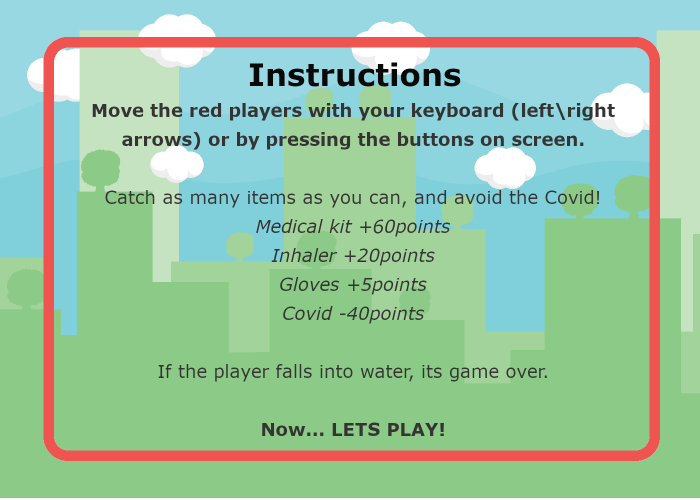
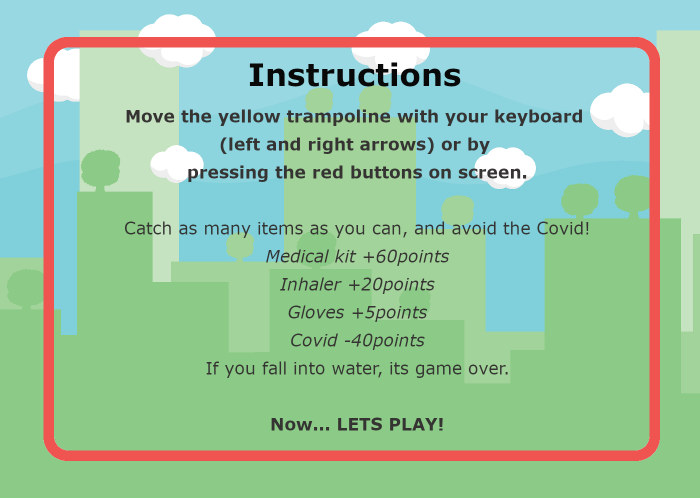
items going to hospital

Changed region(s): [[0.12, 0.21, 0.9, 0.69], [0.21, 0.72, 0.78, 0.78], [0.36, 0.81, 0.66, 0.87]]

diff --git a/game.js b/game.js
@@ -15,7 +15,7 @@ class Game {
         this.inhalerRate = 3000 //one new inhaler every 3 seconds
 
         this.virusTimer  = 0
-        this.virusRate = 400000 //one new inhaler every 5 seconds
+        this.virusRate = 4000 //one new inhaler every 5 seconds
 
         this.setKeyBindings();
         
@@ -72,9 +72,6 @@ class Game {
             const obstacle = this.obstacles[i]
             const obstacleType = obstacle.imageName
 
-            this.x = this.inicialX;
-            this.y =  this.inicialY;
-
             // const obstacleSpeed= obstacle.speed
 
             //run the logic for the obstacles
@@ -83,7 +80,7 @@ class Game {
             if(obstacle.imageName === 'virus')
             {
                 obstacle.runLogicVirus()
-                obstacle.speed = obstacle.speed + 0,1;
+                obstacle.speed = obstacle.speed + 1;
                 ;
             } else {obstacle.runLogic()};
             
@@ -91,8 +88,20 @@ class Game {
             if(obstacle.detectCollision()){
                 //collision detected!
                 //remove the obstacle from the array
-                this.obstacles.splice(i, 1) // Delete object
-                i++
+
+                if(obstacle.imageName === 'virus'){
+                    this.obstacles.splice(i, 1) // Delete object
+                    i++
+                }else{
+                    const hospitalX = 600
+                    const hospitalY = 190
+                    obstacle.toHospital = true
+                    const a  = (-hospitalY + obstacle.y) / (-hospitalX + obstacle.x)
+                    obstacle.toHospitalEquationA = a
+                    obstacle.toHospitalEquationB = obstacle.y - a * obstacle.x
+                    console.log("A",a)
+                    console.log("B",obstacle.y - a * obstacle.x)
+                }
                 //update the score
                 this.scoreboard.updateScore(obstacleType)
             }
@@ -129,7 +138,7 @@ class Game {
         if(this.inhalerTimer < timestamp - this.inhalerRate){
             this.inhalerTimer = timestamp
             const obstacle = new Obstacle(this, this.inicialX, this.inicialY, 20, 20, this.speed, 'images/inhaler.png', 'inhaler');
-            // const obstacle = new Obstacle(this, Math.random()*600, 0, 20, 20, 2, 'images/pill-red.png');
+            //const obstacle = new Obstacle(this, Math.random()*600, 0, 20, 20, 2, 'images/pill-red.png');
             this.obstacles.push(obstacle);
         }
 
@@ -143,10 +152,10 @@ class Game {
            obstacle.draw()
        }
       }
-
     
     drawGame () {
         this.clearCanvas();
+        this.drawInstructions
         this.background.draw();
         this.character.draw();
         this.obstacleDraw()
@@ -154,18 +163,7 @@ class Game {
     }
     
     start () {
-        const instructionsimage = new Image();
-
-        instructionsimage.src = 'images/instructions.png';
-        
-        instructionsimage.addEventListener('load', () =>{
-            context.drawImage(instructionsimage, 0, 0)
-        })
-
-        context.drawImage(instructionsimage, 0, 0)
-
         this.running = true;
-
         this.loop();
     }
 

diff --git a/obstacle.js b/obstacle.js
@@ -5,23 +5,44 @@ class Obstacle {
         this.basePixel = this.game.basePixel;
         this.context = this.game.context;
 
-        this.x = x;
-        this.y = y;
+        //this.x = x;
+        //this.y = y;
+
+        this.trampolineTime = 0
+        this.hospitalTime = 1
 
         this.width = 20;
         this.height = 20;
 
-        this.speed = speed;
+        this.toHospital = false
+
+        this.toHospitalEquationA = 0
+        this.toHospitalEquationB = 0
+
+        
 
         this.obstacleImage = new Image();
         this.obstacleImage.src = image
 
         this.imageName = imageName;
 
-        this.inicialX = 80;
-        this.inicialY = 190;
+        this.setInitialPositions(x, y, speed, imageName)
 
-        this.gravity = 2 
+
+
+        this.gravity = 1.5;
+    }
+
+    setInitialPositions(x,y, speed, imageName){
+        if(imageName === 'virus'){
+            this.x = x
+            this.y = y
+            this.speed = speed
+        }else{
+            this.x = 80
+            this.y = 190
+            this.speed = Math.random()*1.5;
+        }
     }
 
     detectCollision () {
@@ -35,25 +56,29 @@ class Obstacle {
     }
 
     runLogic () {
+        if(!this.toHospital){
+            this.sendToTrampolin()
+            this.trampolineTime +=0.1
+        }else{
+            this.sendToHospital()
+            this.hospitalTime +=0.5
+        }
+        
+    }
 
-        console.log("runLogic is running")
+    sendToTrampolin(){
+        this.x = 80 + this.speed*2 * this.trampolineTime**2;
+        this.y = 190 + this.gravity * this.trampolineTime **2;
+        
+    }
 
-
-        // this.y = this.y + Math.sin(this.speed);
-
-        // x=80 y=190
-
-
-        console.log('X : ', this.inicialX, this.speed, this.game.time);
-        console.log("this.x "+ this.x)
-        console.log('Y :', this.inicialY, this.gravity, this.game.time);
-        console.log("this.y "+ this.y)
-
-        this.x = this.inicialX
-        this.x = this.inicialX + this.speed*2 * this.game.time**2;
-
-        this.y = this.inicialY
-        this.y = this.inicialY + this.gravity * this.game.time **2;
+    sendToHospital(){
+        const a = this.toHospitalEquationA
+        const b = this.toHospitalEquationB
+        this.x += this.hospitalTime
+        this.y = a * this.x + b
+        console.log(this.x)
+        console.log(this.y)
     }
     
     runLogicVirus () {

diff --git a/background.js b/background.js
@@ -15,4 +15,13 @@ class Background {
         )
         context.drawImage(backgroundimage, 0, 0)
     }
+
+    drawInstructions () {
+        const instructionsimage = new Image();
+        instructionsimage.src = 'images/instructions.png';
+        instructionsimage.addEventListener('load', () =>{
+            context.drawImage(instructionsimage, 0, 0)
+        })
+        context.drawImage(instructionsimage, 0, 0)
+    }
 }

diff --git a/main.js b/main.js
@@ -2,6 +2,7 @@ const $canvas = document.querySelector('canvas');
 const context = $canvas.getContext('2d');
 
 const game = new Game($canvas);
+game.background.drawInstructions()
 
 
 
